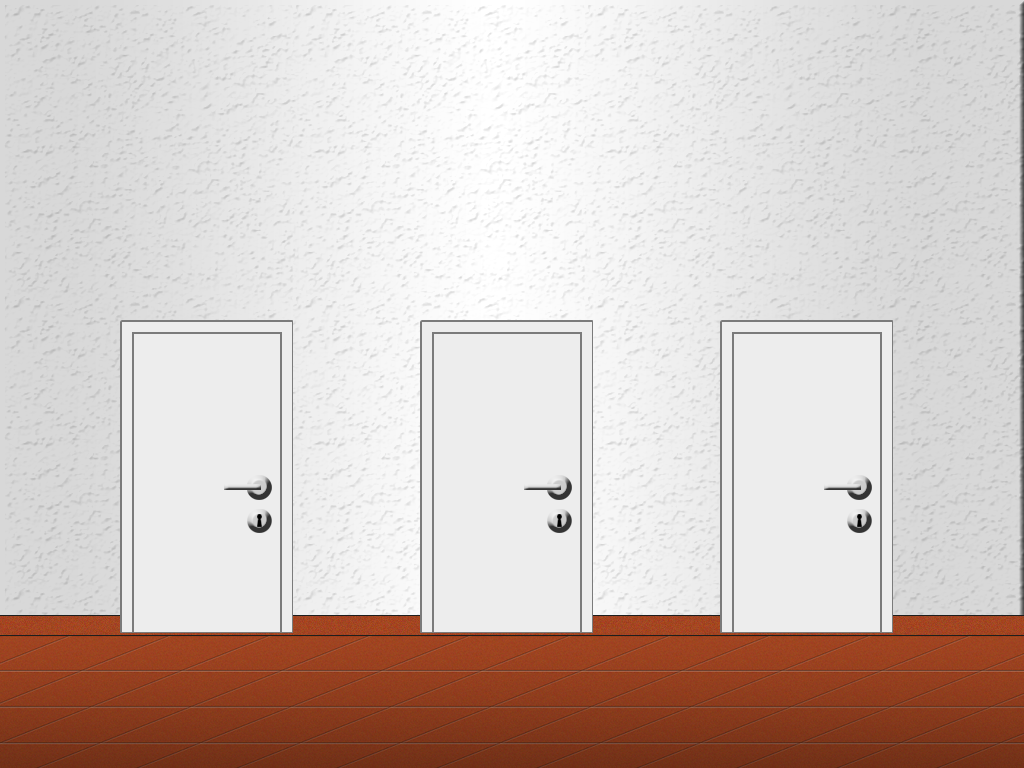
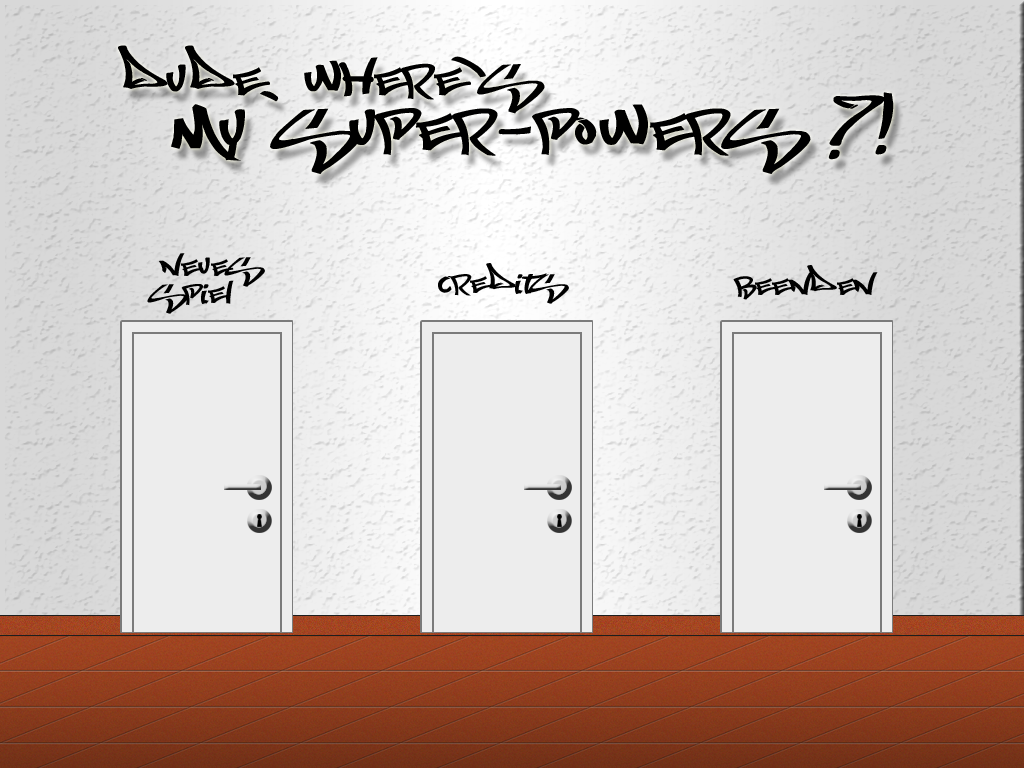
bilder in views

diff --git a/fh-game-jam-2011-dovahkiin/src/game/view/IntroView.java b/fh-game-jam-2011-dovahkiin/src/game/view/IntroView.java
@@ -10,7 +10,11 @@ import org.cogaen.event.EventListener;
 import org.cogaen.event.EventManager;
 import org.cogaen.event.SimpleEvent;
 import org.cogaen.input.KeyPressedEvent;
+import org.cogaen.java2d.ImageHandle;
+import org.cogaen.java2d.Overlay;
 import org.cogaen.java2d.SceneManager;
+import org.cogaen.java2d.SpriteHandle;
+import org.cogaen.java2d.SpriteVisual;
 import org.cogaen.resource.ResourceManager;
 import org.cogaen.view.AbstractView;
 
@@ -33,7 +37,11 @@ public class IntroView extends AbstractView implements EventListener{
 		
 		SceneManager scnMngr = SceneManager.getInstance(this.getCore());
 		scnMngr.setClearBackground(true);
-		
+
+		Overlay bg = scnMngr.createOverlay("background");
+		SpriteVisual bgSpr = scnMngr.createSpriteVisual("intro_background_spr");
+		bg.addVisual(bgSpr);
+		bg.setPosition(512, 384);
 		
 	}
 
@@ -41,6 +49,8 @@ public class IntroView extends AbstractView implements EventListener{
 	public void registerResources(String group) {
 		ResourceManager resMngr = ResourceManager.getInstance(this.getCore());
 		
+		resMngr.addResource(new ImageHandle( "intro_background_img", "intro-background.png") );
+		resMngr.addResource(new SpriteHandle( "intro_background_spr", "intro_background_img", 1024, 768) );
 	}
 
 	@Override

diff --git a/fh-game-jam-2011-dovahkiin/src/game/state/IntroState.java b/fh-game-jam-2011-dovahkiin/src/game/state/IntroState.java
@@ -5,8 +5,11 @@ import game.view.IntroView;
 import org.cogaen.core.Core;
 import org.cogaen.entity.EntityManager;
 import org.cogaen.event.EventType;
+import org.cogaen.event.SimpleEvent;
 import org.cogaen.resource.ResourceManager;
 import org.cogaen.state.GameState;
+import org.cogaen.task.FireEventTask;
+import org.cogaen.task.TaskManager;
 import org.cogaen.view.View;
 
 public class IntroState implements GameState {
@@ -34,6 +37,7 @@ public class IntroState implements GameState {
 		ResourceManager.getInstance(this.core).loadGroup(NAME);
 		this.view.engage();
 		//TODO: do stuff here
+		TaskManager.getInstance(core).attachTask(new FireEventTask(core, new SimpleEvent(INTRO_TO_PLAY), 5.0));
 	}
 
 	@Override

diff --git a/fh-game-jam-2011-dovahkiin/src/game/view/MenuView.java b/fh-game-jam-2011-dovahkiin/src/game/view/MenuView.java
@@ -55,7 +55,7 @@ public class MenuView extends AbstractView implements EventListener{
 		door = scnMngr.createOverlay("door");
 		SpriteVisual doorSpr = scnMngr.createSpriteVisual("menu_door_spr");
 		door.addVisual(doorSpr);
-		door.setPosition(207, 477);
+		door.setPosition(207 + 300 * this.selectedItem, 477);
 	}
 
 	public void disengage() {

diff --git a/fh-game-jam-2011-dovahkiin/src/game/state/MenuState.java b/fh-game-jam-2011-dovahkiin/src/game/state/MenuState.java
@@ -39,6 +39,7 @@ public class MenuState implements GameState, EventListener {
 		this.view.engage();
 		EventManager.getInstance(this.core).addListener(this, ChangeItemEvent.TYPE);
 		EventManager.getInstance(this.core).addListener(this, SelectItemEvent.TYPE);
+		
 	}
 
 	public void onExit() {
